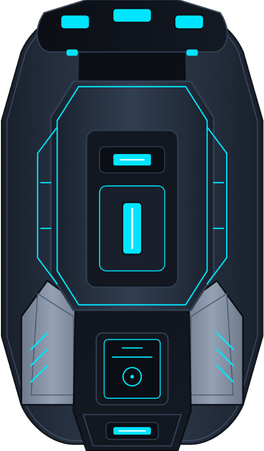
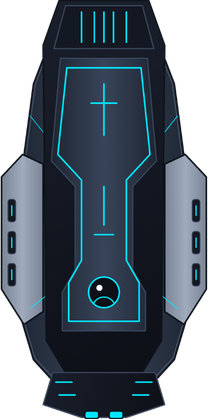
feat: the preset-assets are now updated, V0.6.3

diff --git a/main.js b/main.js
@@ -294,6 +294,27 @@ function createCompositeTank(scene, tankDefinition, x, y, angle = 0) {
     return container;
 }
 
+function createPresetTank(scene, textureKey, x, y, movementAngle = 0) {
+    const tank = scene.add.container(x, y);
+    tank.rotation = movementAngle;
+    tank.name = 'tank';
+
+    const sprite = scene.add.image(0, 0, textureKey)
+        .setOrigin(0.5)
+        .setAngle(90)
+        .setScale(0.462);
+    tank.add(sprite);
+    scene.physics.add.existing(tank);
+
+    if (tank.body) {
+        tank.body.setCollideWorldBounds(true);
+        tank.body.setSize(140, 70);
+        tank.body.setOffset(-70, -35);
+    }
+
+    return tank;
+}
+
 function showGameLoadingSplash() {
     const splash = document.getElementById('startup-splash');
     const image = splash?.querySelector('.startup-splash__image');
@@ -357,7 +378,7 @@ window.startGameWithSelections = function (selections) {
 
     window.__selectedTankBuild = selections || {
         1: { belt: 'belt-esteiras', turret: 'turret-equilibrada', chassis: 'chassis-equilibrado', cannon: 'cannon-parabolica' },
-        2: { belt: 'belt-propulsores', turret: 'turret-pesada', chassis: 'chassis-pesado', cannon: 'cannon-onda-de-choque' }
+        2: { belt: 'belt-propulsores', turret: 'turret-pesada', chassis: 'chassis-equilibrado', cannon: 'cannon-onda-de-choque' }
     };
 
     if (game) {
@@ -368,9 +389,26 @@ window.startGameWithSelections = function (selections) {
     game = new Phaser.Game(buildPhaserConfig());
 };
 
-function buildPresetSpriteKey(selection) {
+function getPartCode(part) {
+    const filename = part.sprite.split('/').pop() || '';
+    const code = filename.replace(/\D/g, '');
+    if (code.length !== 2) {
+        throw new Error(`Invalid part code in sprite path: ${part.sprite}`);
+    }
+    return code;
+}
+
+function buildPresetSpriteKey(catalog, selection) {
     if (!selection) return null;
-    return `${selection.belt}__${selection.turret}__${selection.chassis}__${selection.cannon}`;
+    const cannon = findCatalogPart(catalog, 'cannon', selection.cannon);
+    const turret = findCatalogPart(catalog, 'turret', selection.turret);
+    const chassis = findCatalogPart(catalog, 'chassis', selection.chassis);
+    const belt = findCatalogPart(catalog, 'belt', selection.belt);
+    if (!cannon || !turret || !chassis || !belt) {
+        console.warn('Unable to build preset sprite key', selection);
+        return null;
+    }
+    return `tank${[cannon, turret, chassis, belt].map(getPartCode).join('')}`;
 }
 
 function preload() {
@@ -407,23 +445,25 @@ function preload() {
         ['turret-pesada', 'assets/tanks/chasiss/turret03.png'],
         ['chassis-equilibrado', 'assets/tanks/chasiss/chassis02.png'],
         ['chassis-leve', 'assets/tanks/chasiss/chassis01.png'],
-        ['chassis-pesado', 'assets/tanks/chasiss/chassis03.png'],
         ['cannon-parabolica', 'assets/tanks/cannons/cannon01.png'],
         ['cannon-onda-de-choque', 'assets/tanks/cannons/cannon02.png'],
         ['cannon-rapido', 'assets/tanks/cannons/cannon03.png']
     ].forEach(([key, path]) => this.load.image(key, path));
 
-    // 2 belts x 3 chassis x 3 cannons = 18 generated tank presets
-    const beltIds = ['belt-esteiras', 'belt-propulsores'];
-    const chassisIds = ['chassis-equilibrado', 'chassis-leve', 'chassis-pesado'];
-    const cannonIds = ['cannon-parabolica', 'cannon-onda-de-choque', 'cannon-rapido'];
+    // 2 tracks x 3 chassis x 3 turrets x 3 cannons = 54 generated tank presets
+    const beltCodes = ['01', '02'];
+    const chassisCodes = ['01', '02'];
+    const turretCodes = ['01', '02', '03'];
+    const cannonCodes = ['01', '02', '03'];
 
-    beltIds.forEach((beltId) => {
-        chassisIds.forEach((chassisId) => {
-            cannonIds.forEach((cannonId) => {
-                const key = `${beltId}__${chassisId}__${cannonId}`;
-                const path = `assets/preset-sprites/${key}.png`;
-                this.load.image(key, path);
+    beltCodes.forEach((beltCode) => {
+        chassisCodes.forEach((chassisCode) => {
+            turretCodes.forEach((turretCode) => {
+                cannonCodes.forEach((cannonCode) => {
+                    const key = `tank${cannonCode}${turretCode}${chassisCode}${beltCode}`;
+                    const path = `assets/preset-sprites/version02/CyberAssets/${key}.png`;
+                    this.load.image(key, path);
+                });
             });
         });
     });
@@ -521,7 +561,7 @@ function create() {
 
     const selectionState = window.__selectedTankBuild || {
         1: { belt: 'belt-esteiras', turret: 'turret-equilibrada', chassis: 'chassis-equilibrado', cannon: 'cannon-parabolica' },
-        2: { belt: 'belt-propulsores', turret: 'turret-pesada', chassis: 'chassis-pesado', cannon: 'cannon-onda-de-choque' }
+        2: { belt: 'belt-propulsores', turret: 'turret-pesada', chassis: 'chassis-equilibrado', cannon: 'cannon-onda-de-choque' }
     };
 
     const map = this.make.tilemap({ key: 'techMap' });
@@ -545,28 +585,18 @@ function create() {
     });
 
     getTankCatalog().then((catalog) => {
-        const player1Build = buildTankSelection(catalog, selectionState[1]);
-        const player2Build = buildTankSelection(catalog, selectionState[2]);
-
-        const p1Key = buildPresetSpriteKey(selectionState[1]);
-        const p2Key = buildPresetSpriteKey(selectionState[2]);
+        const p1Key = buildPresetSpriteKey(catalog, selectionState[1]);
+        const p2Key = buildPresetSpriteKey(catalog, selectionState[2]);
 
         const player1Config = buildTankRuntimeConfig(catalog, selectionState[1]);
         const player2Config = buildTankRuntimeConfig(catalog, selectionState[2]);
 
-        if (this.textures.exists(p1Key)) {
-            this.player1 = this.physics.add.image(88, 367, p1Key);
-            this.player1.setScale(1);
-        } else {
-            this.player1 = createCompositeTank(this, player1Build, 88, 367, 0);
+        if (!p1Key || !p2Key || !this.textures.exists(p1Key) || !this.textures.exists(p2Key)) {
+            throw new Error('Selected tank preset sprite was not loaded');
         }
 
-        if (this.textures.exists(p2Key)) {
-            this.player2 = this.physics.add.image(1830, 782, p2Key).setAngle(180);
-            this.player2.setScale(1);
-        } else {
-            this.player2 = createCompositeTank(this, player2Build, 1830, 782, Math.PI);
-        }
+        this.player1 = createPresetTank(this, p1Key, 88, 367);
+        this.player2 = createPresetTank(this, p2Key, 1830, 782, Math.PI);
 
         this.player1.name = 'player1';
         this.player2.name = 'player2';
@@ -758,7 +788,7 @@ function shootProjectile(scene, player, projectileData, projectileGroup) {
 
 if (typeof window !== 'undefined') {
     window.__selectedTankBuild = window.__selectedTankBuild || {
-        1: { belt: 'belt-esteiras', chassis: 'chassis-equilibrado', cannon: 'cannon-parabolica' },
-        2: { belt: 'belt-propulsores', chassis: 'chassis-pesado', cannon: 'cannon-onda-de-choque' }
+        1: { belt: 'belt-esteiras', turret: 'turret-equilibrada', chassis: 'chassis-equilibrado', cannon: 'cannon-parabolica' },
+        2: { belt: 'belt-propulsores', turret: 'turret-pesada', chassis: 'chassis-equilibrado', cannon: 'cannon-onda-de-choque' }
     };
 }

diff --git a/builder.js b/builder.js
@@ -1,5 +1,4 @@
 const DOWNLOAD_BUTTON_ENABLED = false;
-
 const fallbackCatalog = {
   belts: [
     {
@@ -34,14 +33,6 @@ const fallbackCatalog = {
       type: 'chassis',
       sprite: 'assets/tanks/chasiss/chassis01.png',
       stats: { hp: 90, weight: 40, armor: 0.8, resistance: 9 },
-      display: { x: 0, y: 0, scaleX: 1.0, scaleY: 1.0 }
-    },
-    {
-      id: 'chassis-pesado',
-      name: 'Pesado',
-      type: 'chassis',
-      sprite: 'assets/tanks/chasiss/chassis03.png',
-      stats: { hp: 150, weight: 75, armor: 1.4, resistance: 18 },
       display: { x: 0, y: 0, scaleX: 1.0, scaleY: 1.0 }
     }
   ],
@@ -132,6 +123,29 @@ async function loadCatalog() {
 function findPart(catalog, type, id) {
   const list = catalog[type + 's'] || catalog[type];
   return list.find((item) => item.id === id);
+}
+
+function getPartCode(part) {
+  const filename = part.sprite.split('/').pop() || '';
+  const code = filename.replace(/\D/g, '');
+  if (code.length !== 2) {
+    throw new Error(`Invalid part code in sprite path: ${part.sprite}`);
+  }
+  return code;
+}
+
+function getPresetSpritePath(catalog, selection) {
+  const cannon = findPart(catalog, 'cannon', selection.cannon);
+  const turret = findPart(catalog, 'turret', selection.turret);
+  const chassis = findPart(catalog, 'chassis', selection.chassis);
+  const belt = findPart(catalog, 'belt', selection.belt);
+
+  if (!cannon || !turret || !chassis || !belt) {
+    throw new Error('Preset selection contains an unknown tank part');
+  }
+
+  const code = [cannon, turret, chassis, belt].map(getPartCode).join('');
+  return `assets/preset-sprites/version02/CyberAssets/tank${code}.png`;
 }
 
 function computeTankStats(catalog, selection) {
@@ -263,51 +277,15 @@ function positionPreviewLayer(layer, type, display, xOffset = 0, yScale = 0.35) 
   layer.style.transform = 'translate(-50%, -50%)';
 }
 
-function renderPreview(player, stats) {
+function renderPreview(player, stats, presetPath) {
   const preview = document.createElement('div');
   preview.className = 'tank-preview';
 
-  // The tank is symetrical, and the belt image is of a single belt, so we have to put twice belt images under the tank, to represent a real tank set of belts.
-  const leftBelt = document.createElement('img');
-  leftBelt.className = 'preview-layer preview-belt left';
-  leftBelt.src = stats.belt.sprite;
-  leftBelt.alt = stats.belt.name;
-  const beltDisplay = stats.belt.display;
-  const beltGap = beltDisplay.rightX / 2;
-  positionPreviewLayer(leftBelt, 'belt', beltDisplay, -beltGap);
-
-  const rightBelt = document.createElement('img');
-  rightBelt.className = 'preview-layer preview-belt right';
-  rightBelt.src = stats.belt.sprite;
-  rightBelt.alt = stats.belt.name;
-  positionPreviewLayer(rightBelt, 'belt', beltDisplay, beltGap);
-
-  const chassis = document.createElement('img');
-  chassis.className = 'preview-layer preview-chassis';
-  chassis.src = stats.chassis.sprite;
-  chassis.alt = stats.chassis.name;
-  const chassisDisplay = stats.chassis.display;
-  positionPreviewLayer(chassis, 'chassis', chassisDisplay, chassisDisplay.x * 0.35);
-
-  const cannon = document.createElement('img');
-  cannon.className = 'preview-layer preview-cannon';
-  cannon.src = stats.cannon.sprite;
-  cannon.alt = stats.cannon.name;
-  const cannonDisplay = stats.cannon.display;
-  positionPreviewLayer(cannon, 'cannon', cannonDisplay, cannonDisplay.x * 0.35);
-
-  const turret = document.createElement('img');
-  turret.className = 'preview-layer preview-turret';
-  turret.src = stats.turret.sprite;
-  turret.alt = stats.turret.name;
-  const turretDisplay = stats.turret.display;
-  positionPreviewLayer(turret, 'turret', turretDisplay, turretDisplay.x * 0.35);
-
-  preview.appendChild(leftBelt);
-  preview.appendChild(rightBelt);
-  preview.appendChild(chassis);
-  preview.appendChild(turret);
-  preview.appendChild(cannon);
+  const sprite = document.createElement('img');
+  sprite.className = 'preview-layer preview-preset';
+  sprite.src = presetPath;
+  sprite.alt = 'Selected tank preset';
+  preview.appendChild(sprite);
 
   const label = document.createElement('div');
   label.className = 'preview-title';
@@ -333,6 +311,13 @@ function render() {
   const player = state.currentPlayer;
   const selection = state.selections[player];
   const stats = computeTankStats(catalog, selection);
+  let presetPath;
+  try {
+    presetPath = getPresetSpritePath(catalog, selection);
+  } catch (error) {
+    console.error('Failed to resolve selected tank preset', error);
+    presetPath = '';
+  }
 
   builderScreen.innerHTML = '';
 
@@ -365,7 +350,7 @@ function render() {
   const previewCard = document.createElement('div');
   previewCard.className = 'preview-card';
 
-  const previewBlock = renderPreview(player, stats);
+  const previewBlock = renderPreview(player, stats, presetPath);
   previewCard.appendChild(previewBlock.label);
   previewCard.appendChild(previewBlock.preview);
   previewCard.appendChild(previewBlock.statsWrap);

diff --git a/style.css b/style.css
@@ -485,6 +485,16 @@ button {
     margin-left: 33.33%;
 }
 
+.preview-preset {
+    position: absolute;
+    left: 50%;
+    top: 50%;
+    width: 100%;
+    height: 100%;
+    object-fit: contain;
+    transform: translate(-50%, -50%);
+}
+
 .stat-panel {
     display: flex;
     flex-direction: column;
